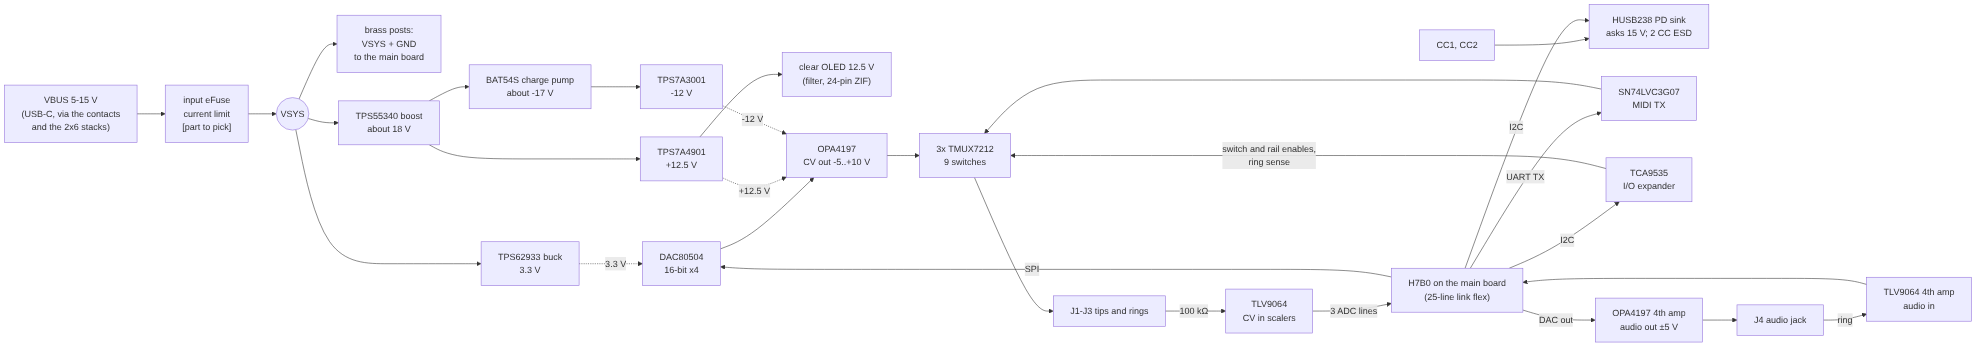
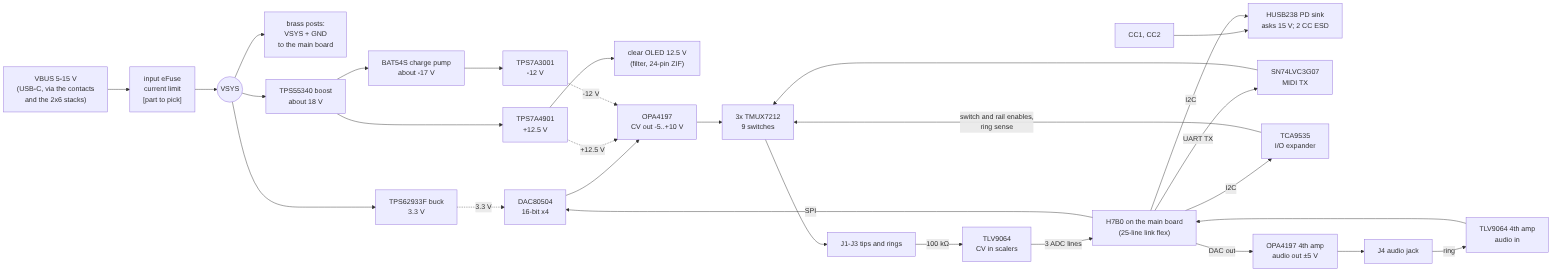
Q39 = A (Ed 15:59): TPS62933F on every buck; jack board U6 swapped; Q38 picture updated
The jack board's 3.3 V buck becomes TPS62933FDRLR (LCSC C5219272), same SOT-583
and pins: design.py plus the generated schematic, board, symbol, placement and
BOM. Frequencies about 1-2 MHz, set apart (values in step 3); 1220 PWM 100 kHz.

Claude-Session: https://claude.ai/code/session_01WWsCM96FvqnjJZsKaS5e4f

diff --git a/tools/studies/power_tree_q38_sketch.py b/tools/studies/power_tree_q38_sketch.py
@@ -31,8 +31,8 @@ for x0, tag, two in ((0, "A (recommended): two bucks, both straight from 15 V", 
                      (81, "B: one buck to 5 V, then an LDO to 3.3 V (the 3 Nov plan)", False)):
     ax.text(x0 + 1, 85, tag, fontsize=11.5, weight="bold")
     box(x0 + 2, 60, 12, 12, "15 V\nVSYS", "#e3f2fd", 9, True)
-    box(x0 + 24, 66, 20, 10, "TPS62933 buck\n15 → 5 V, 3 A" + ("\nEN from the H743" if two else ""), "#fff9c4", 8.2, True)
-    box(x0 + 24, 50, 20, 10, ("TPS62933 buck\n15 → 3.3 V, 3 A" if two else "LDO 5 → 3.3 V\n(about 0.4-0.85 W hot)"), "#fff9c4" if two else "#ffe0b2", 8.2, True)
+    box(x0 + 24, 66, 20, 10, "TPS62933F buck\n15 → 5 V, 3 A" + ("\nEN from the H743" if two else ""), "#fff9c4", 8.2, True)
+    box(x0 + 24, 50, 20, 10, ("TPS62933F buck\n15 → 3.3 V, 3 A" if two else "LDO 5 → 3.3 V\n(about 0.4-0.85 W hot)"), "#fff9c4" if two else "#ffe0b2", 8.2, True)
     box(x0 + 50, 64, 28, 14, L5, "#ffcdd2", 7.4)
     box(x0 + 50, 48, 28, 12, L33, "#c8e6c9", 7.4)
     arrow(x0 + 14.5, 68, x0 + 23.5, 71)
@@ -42,21 +42,24 @@ for x0, tag, two in ((0, "A (recommended): two bucks, both straight from 15 V", 
         arrow(x0 + 14.5, 64, x0 + 23.5, 55)
     else:
         arrow(x0 + 34, 65.5, x0 + 34, 60.5)
-    notes = (["Same chip as the jack power board's 3.3 V (TPS62933, 3 A, 2.1 x 1.6 mm,",
-              "LCSC C3200405, US$0.25 [S]): one part number. About 90 % each, cool.",
+    notes = (["Same chip as the jack board's 3.3 V (TPS62933F, Q39, LCSC C5219272,",
+              "US$0.62 [S]): one part number. About 90 % each under load, cool.",
+              "Both fixed frequency, 1-2 MHz, set apart [Q39].",
               "The motor and LED noise on 5 V never rides into the 3.3 V.",
               "3.3 V is always on; the 5 V stays off until the H743 turns it on",
               "(your rule for the jack board's rails, Q6). One more pin (5V_EN).",
               "Margins: 5 V 1.8 A of 3 A; 3.3 V 0.5 A of 3 A."]
              if two else
-             ["The cleanest 3.3 V (the LDO filters the 5 V ripple), but it burns",
-              "(5 - 3.3) x current: about 0.4 W normally, 0.85 W at 0.5 A, on a",
-              "small vertical board.",
+             ["The quietest 3.3 V in the audio band (the LDO filters the 5 V's",
+              "motor and LED ripple), but it burns (5 - 3.3) x current: about",
+              "0.4 W normally, 0.85 W at 0.5 A, on a small vertical board.",
               "3.3 V hangs off the 5 V, so the 5 V must always be on, and its",
               "motor and LED load sit upstream of the main chip.",
               "Fewer parts by one inductor."])
     for k, t in enumerate(notes):
         ax.text(x0 + 2, 40 - k * 4.2, t, fontsize=9)
-ax.text(1, 6, "Either way: the main chip's analog supply (VDDA) gets its own ferrite and capacitors on the main board (AN4938), "
-        "and the 1220's driver sits on its own 5 V branch.", fontsize=9, color="#555")
+ax.text(1, 9, "Either way: the main chip's analog supply (VDDA) gets its own ferrite and capacitors on the main board (AN4938); "
+        "the 1220's driver and the LED ring each on their own filtered 5 V branch;", fontsize=9, color="#555")
+ax.text(1, 5.5, "a small input filter between the posts' 15 V and the bucks (noise sweep). With a quiet reference on VREF+ (Q40, next), "
+        "the 3.3 V's own noise no longer sets the CV readings.", fontsize=9, color="#555")
 fig.savefig(sys.argv[1] if len(sys.argv) > 1 else "power-tree-q38.png")

diff --git a/cad/knob-param/knobparam/electronics/kicad/jack-power-board/design.py b/cad/knob-param/knobparam/electronics/kicad/jack-power-board/design.py
@@ -143,12 +143,15 @@ def build():
     R("93.1k 0.5%", "N12V", "N_FB", "supply"); R("10.0k 0.5%", "N_FB", "GND", "supply"); C("10nF 25V", "N12V", "N_FB", "supply")
     C("10nF", "N_NR", "GND", "supply"); C("10uF 25V", "N12V", "GND", "supply", size="0805")
     _B[0] = "upper"
-    # 3.3 V: TPS62933DRLR: 1 RT, 2 EN, 3 VIN, 4 GND, 5 SW, 6 BST, 7 SS, 8 FB [S]; RT to GND = 1.2 MHz, 2.2 uH, >= 10 uF effective [S table];
+    # 3.3 V: TPS62933FDRLR [Ed 8 Nov Q39 = A: the forced-continuous version, fixed frequency at every load, no light-load bursts in
+    #   the audio band; same SOT-583 and pins as the TPS62933DRLR [S TI datasheet]]: 1 RT, 2 EN, 3 VIN, 4 GND, 5 SW, 6 BST, 7 SS, 8 FB [S];
+    #   RT to GND = 1.2 MHz, 2.2 uH, >= 10 uF effective [S table]. [C] the frequency moves off 1.2 MHz (the boost's 600 kHz x 2) with the
+    #   module's frequency plan in step 3 (docs/noise-sweep-2026-11-08.md).
     #   EN floating = on (0.7 uA pull-up; 6 V abs max, so never to VSYS) [S]: the board's 3.3 V is up whenever VSYS is, so the expander
     #   holds every switch open and every rail off from the start; VOUT = 0.8 x (1 + 30.9k/10.0k) = 3.27 V (the OLED's VDD max is 3.3) [S/A]
-    part("U", "TPS62933DRLR", "Package_TO_SOT_SMD:SOT-583-8",
-         {1: "GND", 2: None, 3: "VSYS", 4: "GND", 5: "SW_3", 6: "BST_3", 7: "SS_3", 8: "FB_3"}, "supply", lcsc="C3200405",
-         mpn="TPS62933DRLR", names={1: "RT", 2: "EN", 3: "VIN", 4: "GND", 5: "SW", 6: "BST", 7: "SS", 8: "FB"})
+    part("U", "TPS62933FDRLR", "Package_TO_SOT_SMD:SOT-583-8",
+         {1: "GND", 2: None, 3: "VSYS", 4: "GND", 5: "SW_3", 6: "BST_3", 7: "SS_3", 8: "FB_3"}, "supply", lcsc="C5219272",
+         mpn="TPS62933FDRLR", names={1: "RT", 2: "EN", 3: "VIN", 4: "GND", 5: "SW", 6: "BST", 7: "SS", 8: "FB"})
     part("L", "2.2uH 1A", "Inductor_SMD:L_Cenker_CKCS252012", {1: "SW_3", 2: "3V3"}, "supply", note="2.5 x 2.0 [A]")
     C("100nF 25V", "BST_3", "SW_3", "supply"); C("10nF", "SS_3", "GND", "supply", note="1.5 ms (6.8 nF minimum) [S]")
     R("30.9k", "3V3", "FB_3", "supply"); R("10.0k", "FB_3", "GND", "supply")

diff --git a/docs/step2-parts-2026-11-05.md b/docs/step2-parts-2026-11-05.md
@@ -52,7 +52,7 @@ the Adafruit/ESP-IDF drivers, confirm by a bus scan]. D+/D- pins: only for Apple
 | Charge-pump diodes | ST BAT54SFILM | C377935 | 2,630 / $0.08 | SOT-23 | 40 V (2.2× the ~18 V stress), 300 mA, 1.25 A surge [S]; add 1-2.2 Ω in series with the pump cap [A] | 2× PMEG4010CEJ C50704 (40 V, 1 A) |
 | +12.5 V LDO | TI TPS7A4901DGNR | C16430 | 8,163 / from $0.89 | HVSSOP-8 | 3-35 V in, 36 V abs max, 150 mA, 15.4 µVrms; 0.44 W at 80 mA ≈ +28 °C [S/A]; EN takes 3.3 V | ADP7142 C514356 |
 | -12 V LDO | TI TPS7A3001DGNR | C33835 | 9,422 / $2.03 | HVSSOP-8 | -3 to -35 V, -36 V abs max, 200 mA, 15.1 µVrms; EN positive logic ≥ 2 V [S] | TPS7A3901 C2685819 (one chip ±) |
-| 3.3 V supply | TI TPS62933DRLR (buck) | C3200405 | 22,735 / from $0.25 | SOT-583 2.1×1.6 | 3.8-30 V, 32 V abs max, 98 % max duty; **EN abs max 6 V: don't tie EN to VBUS** [S] | TPS70933 LDO C89347 (hot at 30 mA from 15 V) |
+| 3.3 V supply | TI **TPS62933FDRLR** (buck, forced continuous: fixed frequency at every load) [Ed 8 Nov Q39 = A; was TPS62933DRLR C3200405, which bursts at light load] | C5219272 | 3,748 / $0.62 (8 Nov) | SOT-583 2.1×1.6 | 3.8-30 V, 32 V abs max, 98 % max duty; **EN abs max 6 V: don't tie EN to VBUS** [S] | TPS70933 LDO C89347 (hot at 30 mA from 15 V) |
 | VBUS TVS (USB-C board) | ST ESDA25P35-1U1M | C1974707 | 7,500 / from $0.105 | DFN1610-2, 1.6×1.0×0.55 | 22 V standoff, 23.3 V min breakdown (no conduction at a 20 V fault), clamps 29-31 V at 10 A, 1400 W; ST lists USB-C PD [S] | SD22-01FTG C1518218 (50 in stock) |
 | D+/D- ESD (USB-C board) | TI TPD2E2U06DRLR | C1972959 | 4,345 / from $0.17 | SOT-5X3 ≈1.6×1.6 | 1.5 pF, 5.5 V standoff, ±25 kV contact, no VBUS pin [S] | TPD2EUSB30 C97502 (0.7 pF, ~1×1); not USBLC6-2P6 (VBUS pin) |
 | CC1/CC2 ESD | Nexperia PESD24VL1BA,115 ×2 | C69324 | 36,990 / $0.055 | SOD-323 | 24 V standoff, 25.4 V min breakdown, 11 pF [S]; the 5.5 V data-line parts would fail if CC shorts to VBUS. Goes beside the HUSB238 on the jack power board (too long for the key pockets) [A] | |

diff --git a/docs/step2-power-board-circuit-2026-11-06.md b/docs/step2-power-board-circuit-2026-11-06.md
@@ -55,7 +55,8 @@ If A, the split I'd use [A, the best of every split of the netlist's blocks that
   wants 12.0-13.5) [S]; CFF 10 nF, NR 10 nF, 4.7 µF 50 V in, 10 µF 25 V out [S: 2.2 µF min]; EN from the expander + 100 kΩ pull-down.
   Pin 7 is DNC (no net at all) [S].
 - **-12 V: TPS7A3001** (93.1k/10.0k = -12.13 V, TI's own table) [S]; same caps; EN high (3.3 V) enables [S]; + 100 kΩ pull-down.
-- **3.3 V: TPS62933DRLR**, RT to GND = 1.2 MHz, 2.2 µH, 2 x 22 µF [S table: ≥ 10 µF effective]; BST 100 nF; SS 10 nF (1.5 ms);
+- **3.3 V: TPS62933FDRLR** [Ed 8 Nov Q39 = A: the forced-continuous version, no light-load bursts; same pins; `docs/noise-sweep-2026-11-08.md`;
+  [C] its frequency moves off 1.2 MHz, the boost's 600 kHz x 2, in step 3], RT to GND = 1.2 MHz, 2.2 µH, 2 x 22 µF [S table: ≥ 10 µF effective]; BST 100 nF; SS 10 nF (1.5 ms);
   **30.9k/10.0k = 3.27 V** (the OLED's VDD maximum is 3.3 V). **EN left floating = on** (0.7 µA pull-up; 6 V absolute, so never to
   VSYS) [S]: the 3.3 V is up whenever VSYS is, so the expander holds every switch open and every rail off from the start.
 - Loads [A]: +12.5 V about 45 mA (OLED 27 mA typ all lit [S], op-amps, switches, outputs); -12 V about 15 mA; 3.3 V under 40 mA

diff --git a/docs/design-notes.md b/docs/design-notes.md
@@ -41,6 +41,17 @@ mating pin (25.91 mm) enters the 11 mm H11 socket by 4.45 mm at a 35 mm riser, w
 window, and by 11.63 mm at 27.82 mm, which is not. The 35 mm body and the -20 pin are a pair. No replacement
 catalogue number is assigned here. The main PCB was not edited.
 
+## Low noise: fixed-frequency supplies (Ed, 8 Nov 2026)
+
+[Ed 15:45 asked for a noise sweep; Q39 = A at 15:59]. Write-up and ranking: `docs/noise-sweep-2026-11-08.md`,
+`docs/img/noise-sweep.png`.
+- Every buck in the module is a **TPS62933F** (forced continuous: fixed frequency at every load, no light-load bursts),
+  LCSC C5219272: the jack board's 3.3 V (U6, swapped from the TPS62933DRLR, same footprint) and board L's 5 V and 3.3 V.
+- Switching frequencies about 1-2 MHz, "well out of the audio band" (50-100 x 20 kHz), and set apart so no two
+  converters or their harmonics meet within the audio band (the boost's 600 kHz x 2 = the jack 3.3 V's 1.2 MHz today);
+  values with step 3. The 1220's PWM at 100 kHz.
+- Still to decide, one at a time: Q38 power tree, Q40 the ADC's reference, Q41 a ground-sense line on the flex.
+
 ## Ring lights v0.52 (Ed, 8 Nov 2026)
 
 [Ed 13:35-14:02]. Picture: `docs/img/race-section-v052-led.png` (cut through an LED site).

diff --git a/docs/noise-sweep-2026-11-08.md b/docs/noise-sweep-2026-11-08.md
@@ -8,6 +8,11 @@ What was swept: every rail and converter (jack power board, its lower board, boa
 the screens, the clear OLED, the dial), every analog input and output (CV in x3, CV out x3, audio in and out, the Halls, MOT_SENSE),
 every crossing between boards (link flex, 2x6 stacks, posts, rod), and the outside world (USB-C, patch cables).
 
+**Outcome: Q39 = A [Ed 8 Nov 15:59, "Yeah, that's perfect", after the 1-2 MHz answer]:** TPS62933F on all three bucks, their
+frequencies set about 1-2 MHz and apart from each other and the boost's harmonics (values in step 3); the 1220's PWM at 100 kHz,
+the DRV8213's top [S]. The jack board's U6 is now TPS62933FDRLR (LCSC C5219272) in design.py and its generated files.
+Next: Q38 (the power tree) again, then Q40, Q41.
+
 ## Where we are, in one line
 Nothing is broken, but five things would show on a scope at the jacks: the switching regulators' light-load bursts, the ADC's
 reference being the 3.3 V supply, the ground offset between the jack board and the main board, the RGB ring's 1.2 kHz dimming, and

diff --git a/docs/main-board-pass-plan-2026-11-07.md b/docs/main-board-pass-plan-2026-11-07.md
@@ -57,6 +57,8 @@ Expected next, one at a time as they come up:
    bucks would sit in light-load mode (PFM) most of the time. **Q39 (open):** A TPS62933F (fixed frequency at every load) on all
    three bucks, B TPS62933O (out-of-audio). Then Q38 again. Then Q40 (the ADC's reference) and Q41 (a ground-sense line on the
    flex), one at a time.
+   **Q39 = A [Ed 15:59 "Yeah, that's perfect"]:** TPS62933F (LCSC C5219272) on all three bucks, about 1-2 MHz, set apart; the
+   1220's PWM at 100 kHz. The jack board's U6 swapped (same footprint). **Q38 asked again** with the F part.
 3. The RGB emitter part; the VCSEL driver. **Hole found 8 Nov:** the red VCSEL is top-emitting, so it cannot fire through the
    board from the back. RGB: SK6812MINI-E recessed in cut-outs. **Q35 (open):** A drop the red VCSELs, B keep them on the front
    under a thicker race (`docs/main-board-circuit-2026-11-07.md`, `docs/img/ring-lights-q35.png`).
